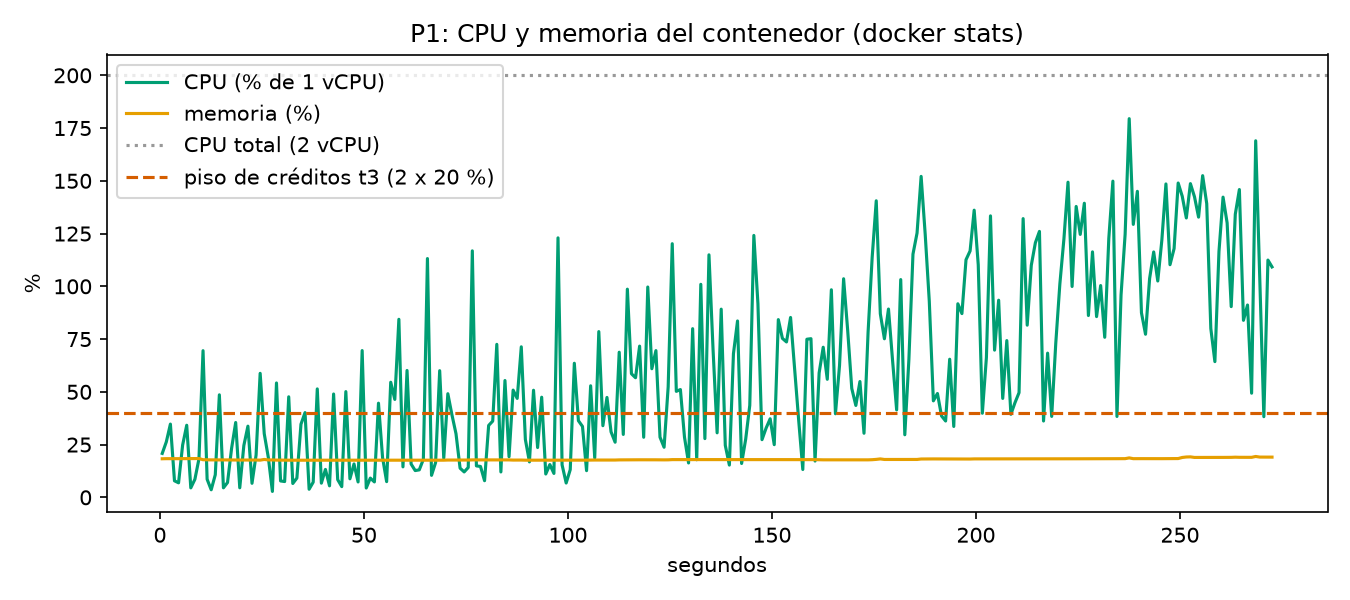
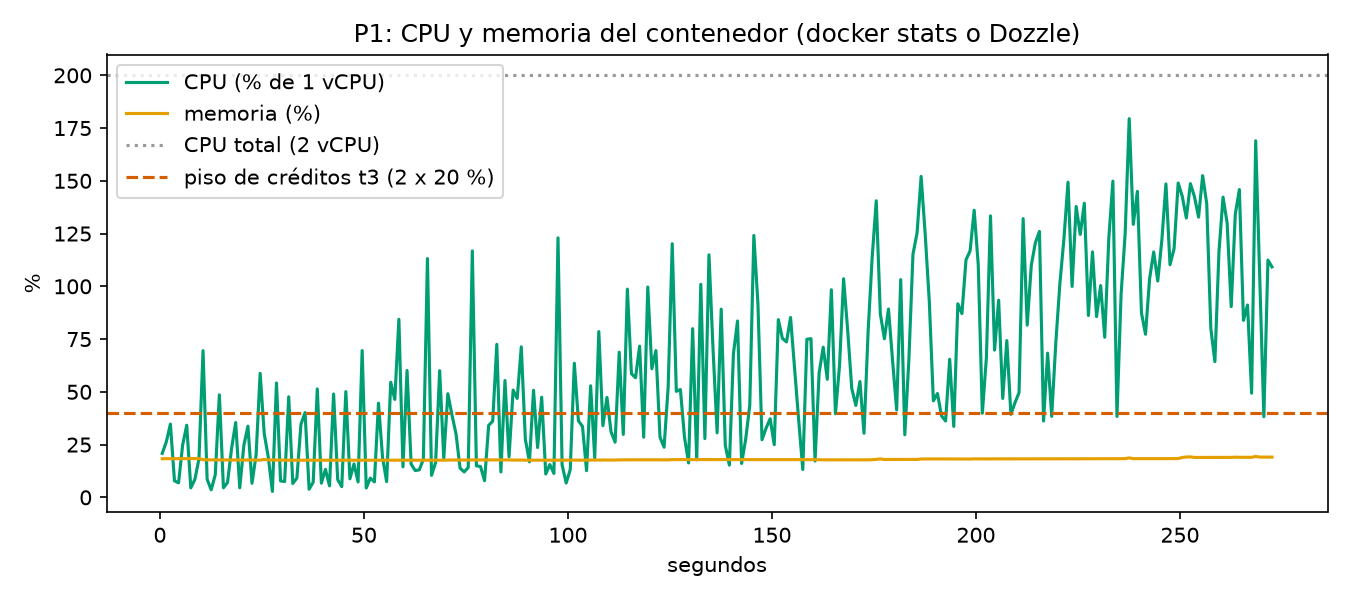
fix: título de la gráfica de recursos (docker stats o Dozzle) y fin de línea LF en p1_peticiones.csv

Changed region(s): [[0.2489, 0.03, 0.8089, 0.09]]

diff --git a/locust/graficas_p1.py b/locust/graficas_p1.py
@@ -144,7 +144,11 @@ def graficar(peticiones, stats, tabla, carpeta: Path) -> None:
     ax.axhline(
         100 * PISO_VCPU, color=BERMELLON, linestyle="--", label="piso de créditos t3 (2 x 20 %)"
     )
-    ax.set(xlabel="segundos", ylabel="%", title="P1: CPU y memoria del contenedor (docker stats)")
+    ax.set(
+        xlabel="segundos",
+        ylabel="%",
+        title="P1: CPU y memoria del contenedor (docker stats o Dozzle)",
+    )
     ax.legend()
     fig.tight_layout()
     fig.savefig(carpeta / "p1_recursos.png", dpi=150)

diff --git a/locust/locustfile_p1.py b/locust/locustfile_p1.py
@@ -78,7 +78,7 @@ def _abrir_archivo(environment, **kwargs) -> None:
     ruta = Path(environment.parsed_options.archivo_peticiones)
     ruta.parent.mkdir(parents=True, exist_ok=True)
     _salida["archivo"] = ruta.open("w", newline="", encoding="utf-8")
-    _salida["csv"] = csv.writer(_salida["archivo"])
+    _salida["csv"] = csv.writer(_salida["archivo"], lineterminator="\n")
     _salida["csv"].writerow(["timestamp", "nombre", "latencia_ms", "exito", "usuarios"])
     _salida["entorno"] = environment
 
